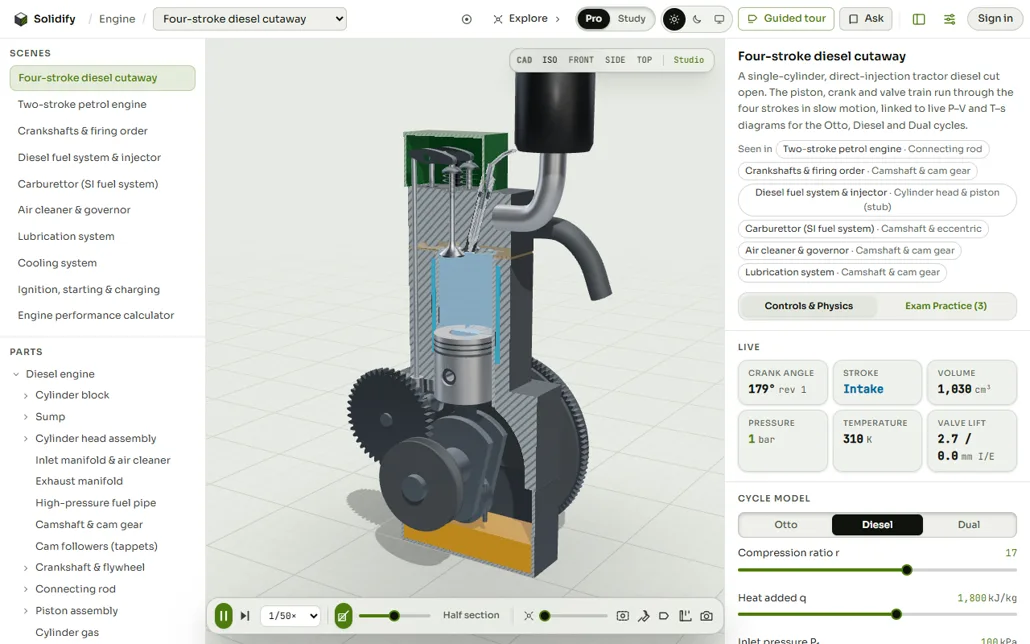
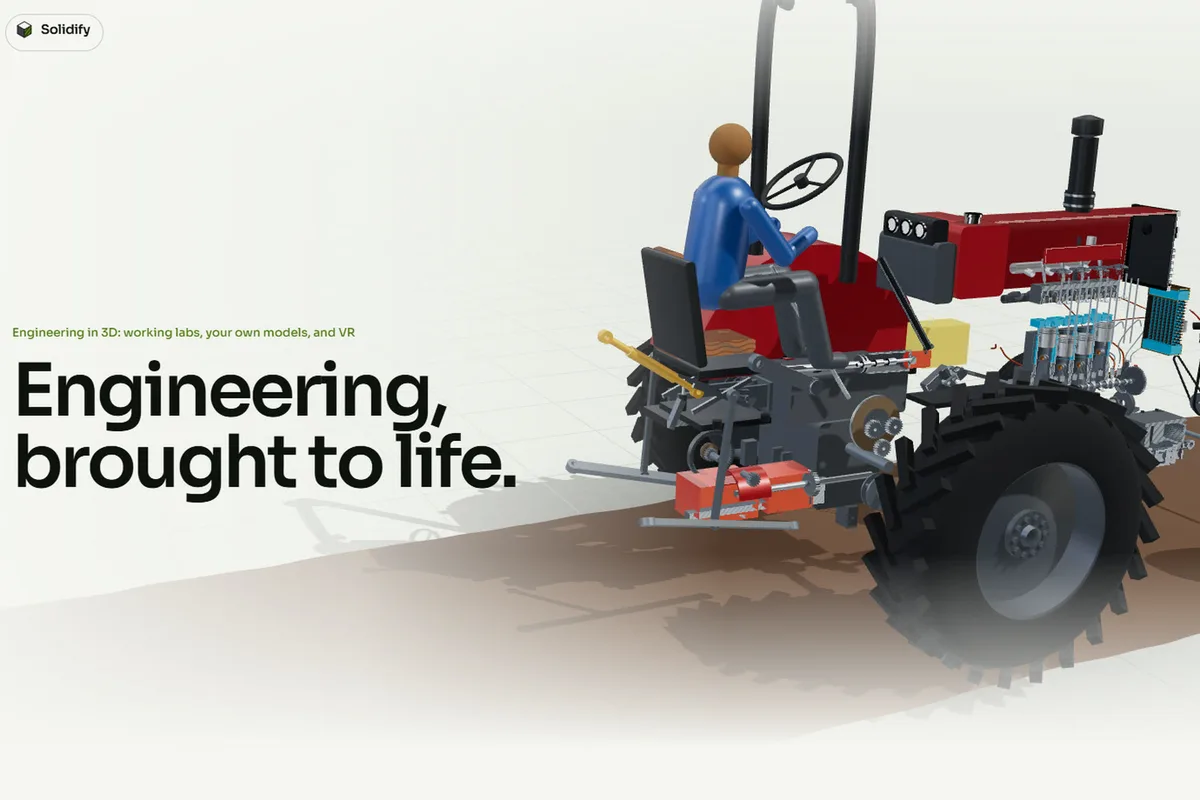
feat(content): lead with Solidify, now engineering machines in 3D and VR
Rewrites the Solidify entry for what it is today: 95 rigs across 16
systems, Create in 3D with checked models, the Quest headset over WebXR
and the open .slfy format. It leads the selected work, grounds the
digital-models research track and appears in the positioning; WebXR and
Gemini join the skills; new picture; revision 2026.11.

diff --git a/src/content/projects.js b/src/content/projects.js
@@ -41,6 +41,44 @@ export const disciplines = [
  */
 export const selected = [
 	{
+		id: "solidify",
+		name: "Solidify",
+		kind: "Engineering machines in 3D and VR",
+		discipline: "or",
+		year: "2026",
+		image: solidify,
+		summary:
+			"An engineering platform where machines run on their own physics. 95 hand-built rigs across 16 systems, from a four-stroke diesel and a synchromesh gearbox to a whole tractor at work, can be cut open at any angle, taken apart and run, with every reading computed by the rig itself. Create in 3D turns a description or a photo into a working model: Gemini plans the parts and how each is held, the app assembles them by relation rather than by coordinates, and checks the result before anyone sees it, turning the mechanism through a cycle to catch parts that collide or come loose. Any lab or model opens in a Quest headset through WebXR, on the table at hand size or beside you at real size. Models save to .slfy, an open format with a public specification and schema.",
+		method: [
+			{ label: "Coverage", value: "95 working rigs across 16 engineering systems" },
+			{
+				label: "Generation",
+				value: "Gemini plans then builds; parts placed by relation, not coordinates",
+			},
+			{
+				label: "Verification",
+				value: "Every part held, moves freely through a cycle, loads act the right way",
+			},
+			{ label: "Headset", value: "WebXR on Quest: table or real size, worked by hand" },
+			{ label: "Physics", value: "Typed engineering formulas under 1,400+ tests" },
+			{ label: "Open format", value: ".slfy: specification, JSON Schema and examples" },
+		],
+		stack: [
+			"TypeScript",
+			"React Three Fiber",
+			"WebXR",
+			"Gemini on Vertex AI",
+			"Hono on Cloud Run",
+			"Firestore",
+		],
+		// The app's repository is not public; the product, the demo and the open format are.
+		links: [
+			{ label: "Live", href: "https://solidify.studio" },
+			{ label: "Format", href: "https://slfy.solidify.studio" },
+			{ label: "Format code", href: "https://github.com/HectorGitt/slfy" },
+		],
+	},
+	{
 		id: "eaglesight",
 		name: "EagleSight",
 		kind: "Fleet logistics & diagnostics engine",
@@ -67,36 +105,6 @@ export const selected = [
 				href: "https://medium.com/@deniyi_dev/building-eaglesight-a-next-gen-fleet-management-system-c29aa3b5ba80",
 			},
 		],
-	},
-	{
-		id: "solidify",
-		name: "Solidify",
-		kind: "Interactive 3D cutaways of farm machinery",
-		discipline: "or",
-		year: "2026",
-		image: solidify,
-		summary:
-			"An agricultural engineering studio in the browser: 66 scenes across 12 tractor systems, from the diesel engine and powertrain to hydraulics, traction and field operations. Each machine can be sliced, exploded and run, with cut faces hatched by material and moving parts left whole as in a museum cutaway. Every motion is driven by the calculation behind it, so a P-V diagram or gear tooth load updates live as the mechanism turns. A professional mode shows mechanisms and sections; an academic mode adds worked examples and a Gemini tutor.",
-		method: [
-			{ label: "Coverage", value: "66 scenes across 12 tractor and implement systems" },
-			{ label: "Sectioning", value: "three-bvh-csg cutaways built in a web worker" },
-			{ label: "Kinematics", value: "Drive-graph solver and three-point linkage solver" },
-			{ label: "Physics", value: "Typed engineering formulas under 1,000+ unit tests" },
-			{
-				label: "Platform",
-				value: "Accounts, progress sync, classes and a Gemini tutor on Cloud Run",
-			},
-		],
-		stack: [
-			"TypeScript",
-			"React Three Fiber",
-			"three.js",
-			"CSG",
-			"Hono",
-			"Firestore",
-		],
-		// Repo is private — it 404s for visitors, so only the live product is linked.
-		links: [{ label: "Live", href: "https://solidify.studio" }],
 	},
 	{
 		id: "locus",
@@ -481,6 +489,7 @@ export const skills = [
 	{
 		group: "Applied AI",
 		items: [
+			"Gemini on Vertex AI",
 			"Retrieval-augmented generation",
 			"Multi-agent systems",
 			"AWS Bedrock",
@@ -512,6 +521,7 @@ export const skills = [
 			"CUDA / GPU serving",
 			"three.js",
 			"React Three Fiber",
+			"WebXR",
 		],
 	},
 	{

diff --git a/src/content/profile.js b/src/content/profile.js
@@ -27,7 +27,7 @@ export const availability = {
 	],
 	status: "Open to offers",
 	notice: "Two weeks",
-	revision: "2026.09",
+	revision: "2026.11",
 };
 
 /**
@@ -70,7 +70,7 @@ export const positioning = {
 	body: [
 		"My training is in agricultural and environmental engineering: thermodynamics, fluid mechanics, machine design, the rheology of biological materials. That is where I learned to distrust a claim until it carries a number and a method. I graduated top of my department with First Class Honours.",
 		"For six years I have been applying the same discipline in software. At Peepalytics I architected the ETL infrastructure on Airflow and Kafka, took a Neo4j and Pandas workload from two hours to ninety seconds, and now lead the technical roadmap for our RAG and multi-agent systems on AWS. Before that I shipped frontend platforms, IAM services and high-traffic Django backends across four teams.",
-		"The two halves meet in my project work. EagleSight solves vehicle routing with mixed-integer programming, then predicts engine failure from a fluid-mechanics model of live telemetry. Copernican integrates orbital mechanics against NASA's live EONET feed. Locus coordinates seven specialised agents to plan against real-world constraints. Operations research on one side, production engineering on the other.",
+		"The two halves meet in my project work. Solidify puts working machines on screen and in a VR headset, each running on its own physics, and turns a plain description into a model it checks by moving it. EagleSight solves vehicle routing with mixed-integer programming, then predicts engine failure from a fluid-mechanics model of live telemetry. Copernican integrates orbital mechanics against NASA's live EONET feed. Locus coordinates seven specialised agents to plan against real-world constraints. Operations research on one side, production engineering on the other.",
 	],
 	nowPursuing:
 		"I am looking for two things: a research group working on perception and autonomy for machines that operate in the physical world, and software work where optimisation and reliability actually matter.",

diff --git a/src/content/academic.js b/src/content/academic.js
@@ -126,6 +126,7 @@ export const researchInterests = [
 			"The physical training is not decorative here. A crack in concrete and a failing hydraulic line are materials problems before they are computer-vision problems, and my degree is in the mechanics of physical systems rather than in images of them.",
 		],
 		grounding: [
+			"Solidify — 95 machine rigs whose 3D models run on their own physics, opened in a VR headset at real size; models generated from a description are checked by turning them through a cycle and testing every part against the others",
 			"Glance & Glamour — an image-to-3D model served behind a FastAPI inference API on a CUDA container, with a React Three Fiber mesh viewer on the front",
 			"Copernican — physical integration against NASA's live EONET feed, rendered in 3D",
 			"WatchWay — GIS telemetry ranked by hazard severity through a priority queue",

diff --git a/src/components/FeaturedWork.js b/src/components/FeaturedWork.js
@@ -23,7 +23,7 @@ const FeaturedWork = () => {
 					label="Selected"
 					meta={`${featured.length} of ${totalProjects}`}
 					title="Three worth reading first"
-					intro="A routing engine that also predicts engine failure, seven agents planning together, and a solar system running on live NASA data."
+					intro="Machines you take apart in a VR headset, a routing engine that also predicts engine failure, and seven agents planning together."
 				/>
 
 				<Grid ref={element} variants={revealStagger} initial={start} animate={controls}>
